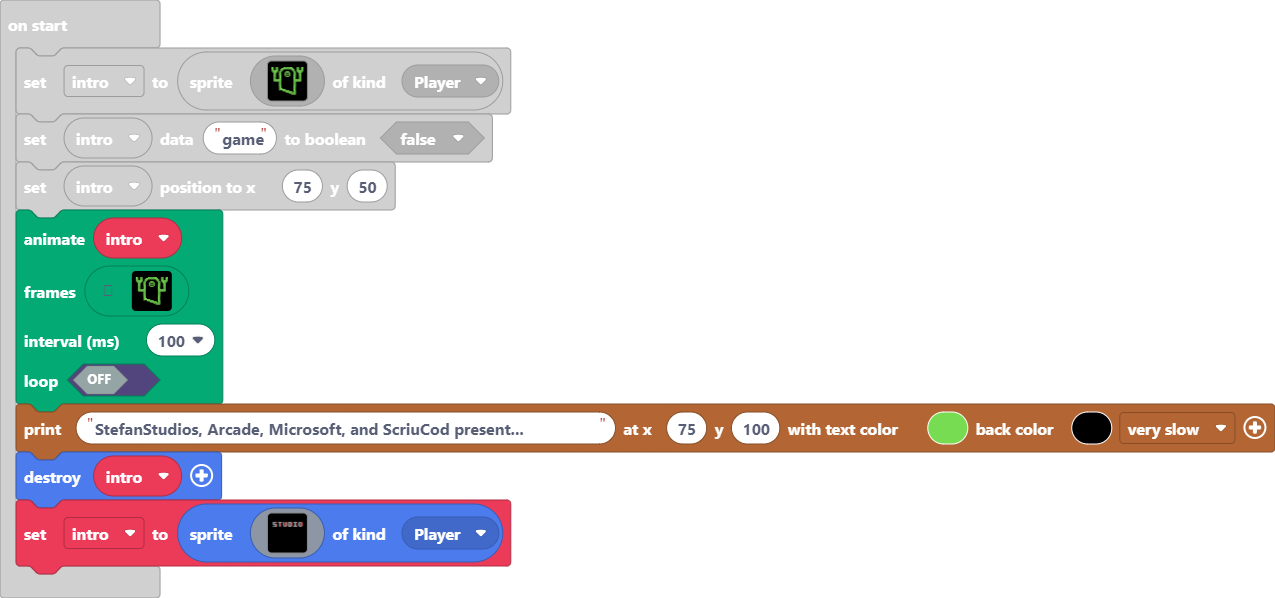
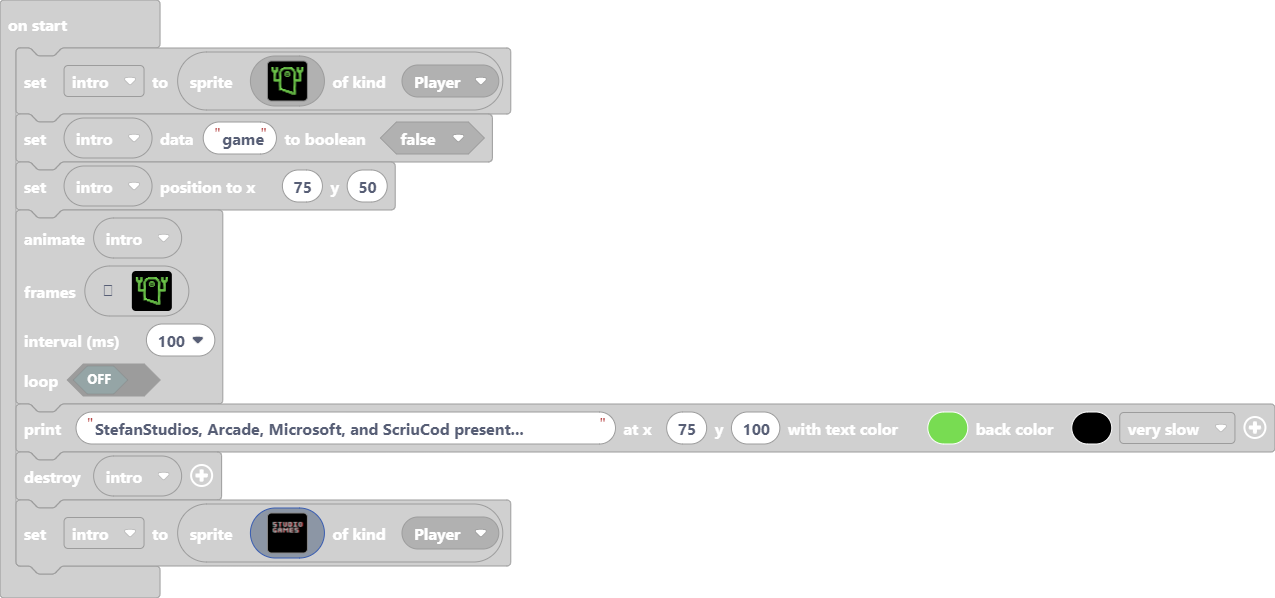
I wrote "Games" in Pixel font

Changed region(s): [[0.0, 0.3311, 1.0, 0.9632]]

diff --git a/main.ts b/main.ts
@@ -313,13 +313,13 @@ intro = sprites.create(img`
     ..6111112...612....61112..611112..6111112..61112..
     ..................................................
     ..................................................
-    ..................................................
-    ..................................................
-    ..................................................
-    ..................................................
-    ..................................................
-    ..................................................
-    ..................................................
+    ...61112...61112..612...612.6111112.6111112.......
+    ..612.61..612.612.6112.6112.612.....612...........
+    ..612.....612.612.611111112.612.....612...........
+    ..612.....6111112.612612612.6111112.6111112.......
+    ..6126112.612.612.612...612.612.........612.......
+    ..612.612.612.612.612...612.612.........612.......
+    ...611112.612.612.612...612.6111112.6111112.......
     ..................................................
     ..................................................
     ..................................................
